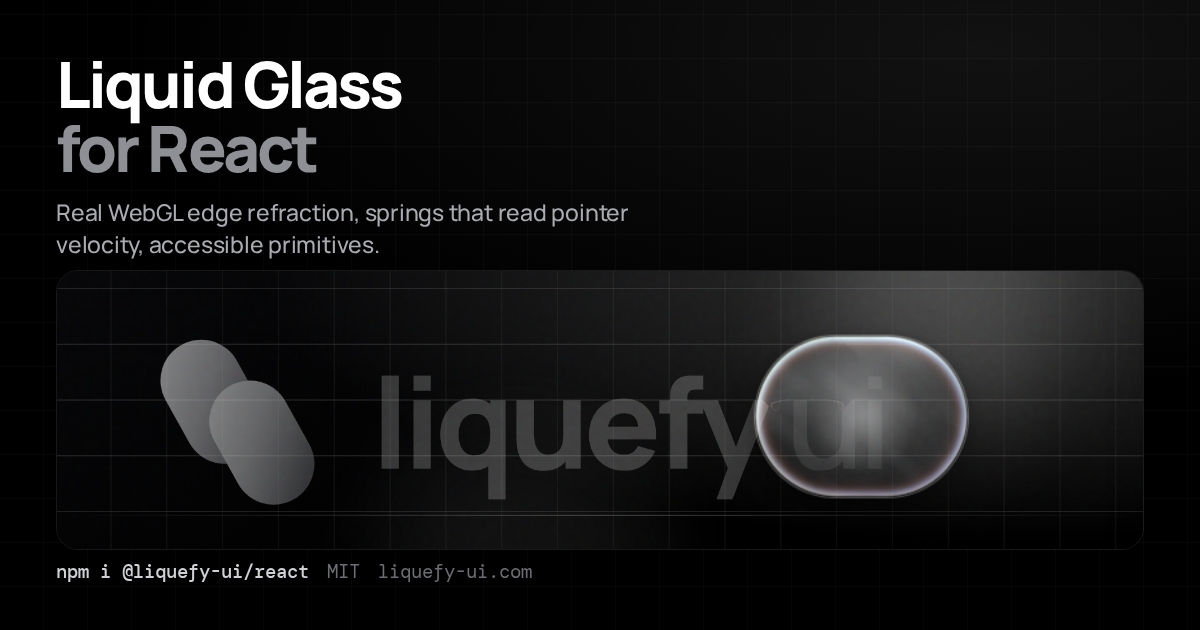
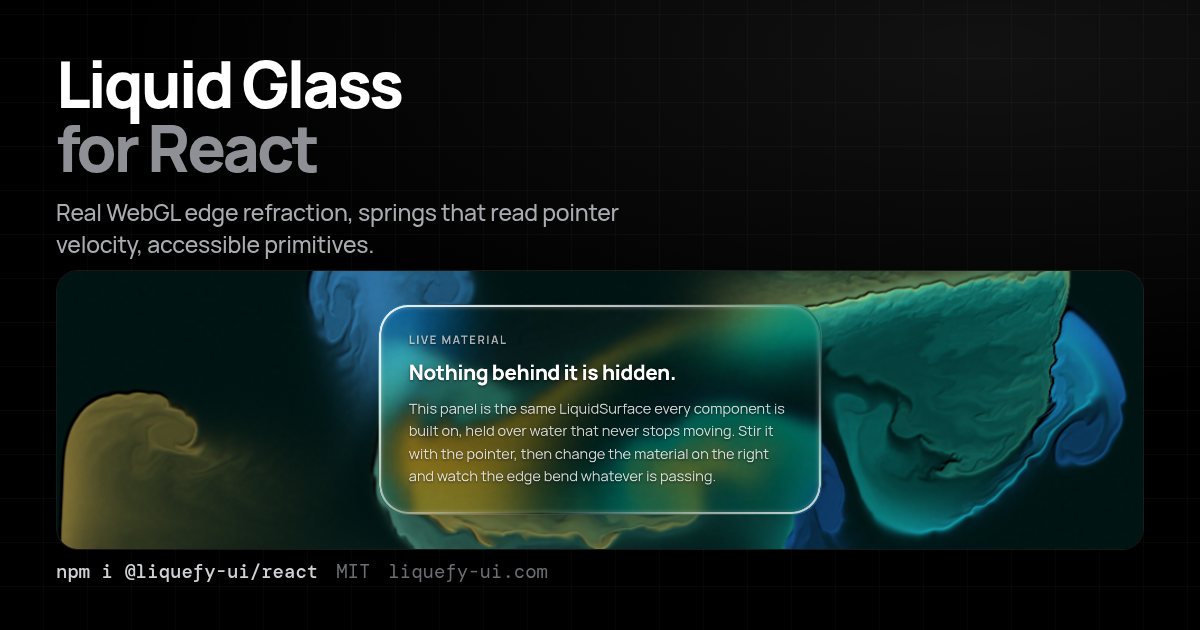
docs: re-take the link preview cards over the water

diff --git a/brand/README.md b/brand/README.md
@@ -15,10 +15,14 @@ a tab, a README and a social card all show the same thing.
 | `liquefy-social.png` | The same card at 1280×640, GitHub's aspect for a repository's social preview |
 
 The two cards are the same drawing at two aspects, and the picture inside them is
-not a mock-up either: it is a clipped screenshot of the landing page's own lens
-stage, taken after a drag so the hint is gone and the springs have settled. Redraw
-them with `scripts/record-card.mjs` — never by hand, and never by cropping one
-from the other. `apps/docs/index.html` declares the size of `liquefy-og.png`, and
+not a mock-up either: it is a screenshot of the landing page's own lens stage —
+the glass panel over `FluidBackdrop` water — clipped to a band across the whole
+stage with the panel in its middle. Dark theme: the lit rim and the bent colour
+at its edge need the contrast to survive a thumbnail. The water never draws the
+same picture twice, so take a few and keep the one where the colour reaches the
+panel's edges. Redraw them with `scripts/record-card.mjs` — never by hand, and
+never by cropping one from the other — so both come from the same frame.
+`apps/docs/index.html` declares the size of `liquefy-og.png`, and
 `test/metadata.test.mjs` reads the PNG header to check the declaration still
 matches the file. GitHub's copy is the one file here that no build or deploy
 installs: it is uploaded once, by hand, under Settings → Social preview.
